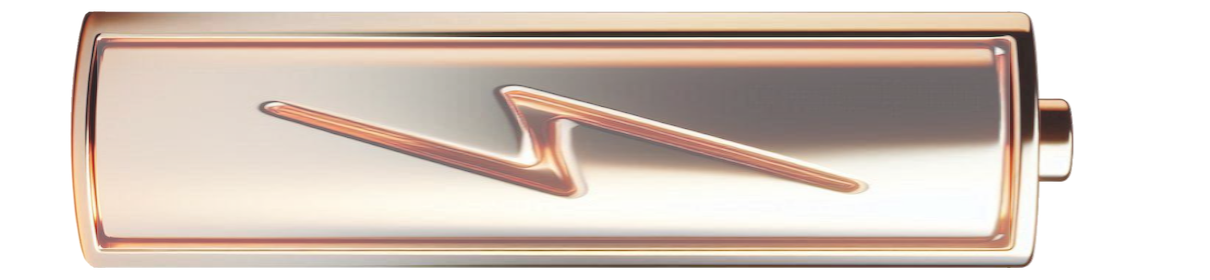
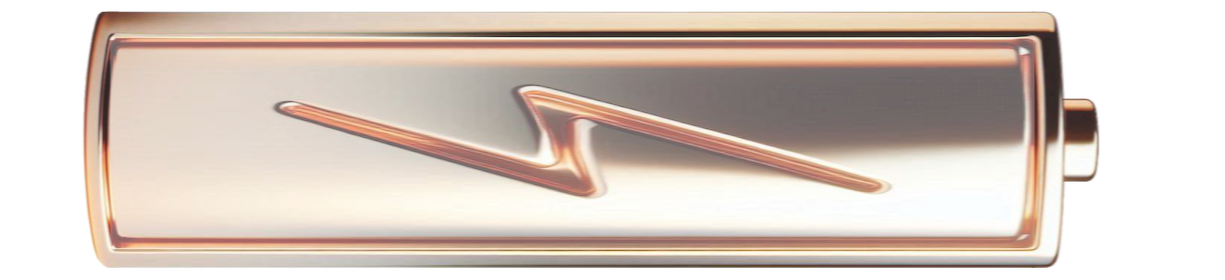
asset update

Changed region(s): [[0.214, 0.2857, 0.7339, 0.7143], [0.795, 0.0286, 0.9174, 0.9714], [0.0306, 0.0286, 0.1223, 0.9714]]

diff --git a/Support/Extensions.cs b/Support/Extensions.cs
@@ -3366,6 +3366,90 @@ public static class Extensions
         return files;
     }
 
+    public static async Task<List<string>> EnumerateDirectoriesWithProgressAsync(this string rootPath, bool recursive = true, CancellationToken? cancellationToken = null, ProgressChangedEventHandler? progressHandler = null)
+    {
+        int count = 0;
+        var directories = new List<string>();
+        await Task.Run(() =>
+        {
+            var searchOption = recursive ? SearchOption.AllDirectories : SearchOption.TopDirectoryOnly;
+            try
+            {
+                foreach (var dir in Directory.EnumerateDirectories(rootPath, "*", searchOption))
+                {
+                    cancellationToken?.ThrowIfCancellationRequested();
+                    directories.Add(dir);
+                    count++;
+                    progressHandler?.Invoke(null, new ProgressChangedEventArgs(count, dir));
+                }
+            }
+            catch (Exception ex) when (ex is not OperationCanceledException)
+            {
+                progressHandler?.Invoke(null, new ProgressChangedEventArgs(-1, ex.Message));
+            }
+        });
+
+        return directories;
+    }
+
+    public static async Task<List<string>> EnumerateFilesAndDirectoriesWithProgressAsync(this string rootPath, bool recursive = true, CancellationToken? cancellationToken = null, ProgressChangedEventHandler? progressHandler = null)
+    {
+        int count = 0;
+        var directories = new List<string>();
+        await Task.Run(() =>
+        {
+            var searchOption = recursive ? SearchOption.AllDirectories : SearchOption.TopDirectoryOnly;
+            try
+            {
+                foreach (var dir in Directory.EnumerateFileSystemEntries(rootPath, "*", searchOption))
+                {
+                    cancellationToken?.ThrowIfCancellationRequested();
+                    directories.Add(dir);
+                    count++;
+                    progressHandler?.Invoke(null, new ProgressChangedEventArgs(count, dir));
+                }
+            }
+            catch (Exception ex) when (ex is not OperationCanceledException)
+            {
+                progressHandler?.Invoke(null, new ProgressChangedEventArgs(-1, ex.Message));
+            }
+        });
+
+        return directories;
+    }
+
+    public static async Task InvokeActionsWithProgressAsync(List<Action> actions, Action<Exception>? onException = null, CancellationToken ? cancellationToken = null,  ProgressChangedEventHandler? progressHandler = null)
+    {
+        if (actions is null || actions.Count == 0)
+            return;
+
+        await Task.Run(() =>
+        {
+            int count = 0;
+            try
+            {
+                foreach (var action in actions)
+                {
+                    cancellationToken?.ThrowIfCancellationRequested();
+                    try
+                    {
+                        action?.Invoke();
+                        count++;
+                        progressHandler?.Invoke(null, new ProgressChangedEventArgs(count, action));
+                    }
+                    catch (Exception ex)
+                    {
+                        onException?.Invoke(ex);
+                    }
+                }
+            }
+            catch (Exception ex) when (ex is OperationCanceledException)
+            {
+                progressHandler?.Invoke(null, new ProgressChangedEventArgs(-1, ex.Message));
+            }
+        });
+    }
+
     /// <summary><code>
     ///   ulong currentPosition = 0;
     ///   using (FileStream input = File.OpenRead(inFileName))

diff --git a/MainPage.xaml.cs b/MainPage.xaml.cs
@@ -183,13 +183,17 @@ public sealed partial class MainPage : Page, INotifyPropertyChanged
         else
             imgBattery.Opacity = 0.85d;
 
-        //if (App.CoreToken != null)
-        //{
-        //    StreamExtensionTest(
-        //        Path.Combine(AppDomain.CurrentDomain.BaseDirectory, "resources.pri"),
-        //        Path.Combine(AppDomain.CurrentDomain.BaseDirectory, "resources_stream.out"),
-        //        App.CoreToken.Token);
-        //}
+        #region [Miscellaneous Tests]
+
+        if (App.CoreToken != null)
+        {
+            //StreamExtensionTest(
+            //    Path.Combine(AppDomain.CurrentDomain.BaseDirectory, "resources.pri"),
+            //    Path.Combine(AppDomain.CurrentDomain.BaseDirectory, "resources_stream.out"),
+            //    App.CoreToken.Token);
+
+            TestActionSequenceExtension(App.CoreToken.Token);
+        }
 
         "SomeTextToEncrypt".EncryptAsync("KEY").ContinueWith((t) =>
             {
@@ -236,6 +240,8 @@ public sealed partial class MainPage : Page, INotifyPropertyChanged
         //                Debug.WriteLine(Directory.Exists(obj) ? $" [FLDR]: '{obj}'" : $" [FILE]: '{obj}'");
         //        }
         //    }).ConfigureAwait(false);
+        
+        #endregion
     }
 
     void MainPageOnUnloaded(object sender, RoutedEventArgs e)
@@ -392,6 +398,31 @@ public sealed partial class MainPage : Page, INotifyPropertyChanged
     }
 
     #region [Tests]
+    public async void TestActionSequenceExtension(CancellationToken token)
+    {
+        List<Action> steps = new()
+        {
+            () => Debug.WriteLine("Step 1"),
+            () => throw new InvalidOperationException("Simulated failure at step 2"),
+            () => Debug.WriteLine("Step 3"),
+        };
+
+        ProgressChangedEventHandler progress = (s, e) =>
+        {
+            if (e.ProgressPercentage == -1)
+                Debug.WriteLine($"[ERROR] {e.UserState}");
+            else
+                Debug.WriteLine($"✅ Action #{e.ProgressPercentage} completed");
+        };
+
+        Action<Exception> errorHandler = ex =>
+        {
+            Debug.WriteLine($"[EXCEPTION] {ex.Message}");
+        };
+
+        await Extensions.InvokeActionsWithProgressAsync(steps, errorHandler, token, progress);
+    }
+
     public void StreamExtensionTest(string inFileName, string outFileName, CancellationToken token)
     {
         ulong currentPosition = 0;

diff --git a/README.md b/README.md
@@ -14,7 +14,7 @@
 
 ## 📰 Description
 - A [WinUI 3](https://learn.microsoft.com/en-us/windows/apps/winui/winui3/) app which uses the [Windows.Devices.Power.Battery](https://learn.microsoft.com/en-us/uwp/api/windows.devices.power.battery?view=winrt-26100) library to render a battery meter.
-- There are 11 battery image backgrounds to choose from.
+- There are 12 battery image backgrounds to choose from.
 - This source also contains plenty of tips and tricks for any [WinUI 3](https://learn.microsoft.com/en-us/windows/apps/winui/winui3/) application.
 - Don't forget to give a ⭐ if you find any of my code helpful or educational.
  
